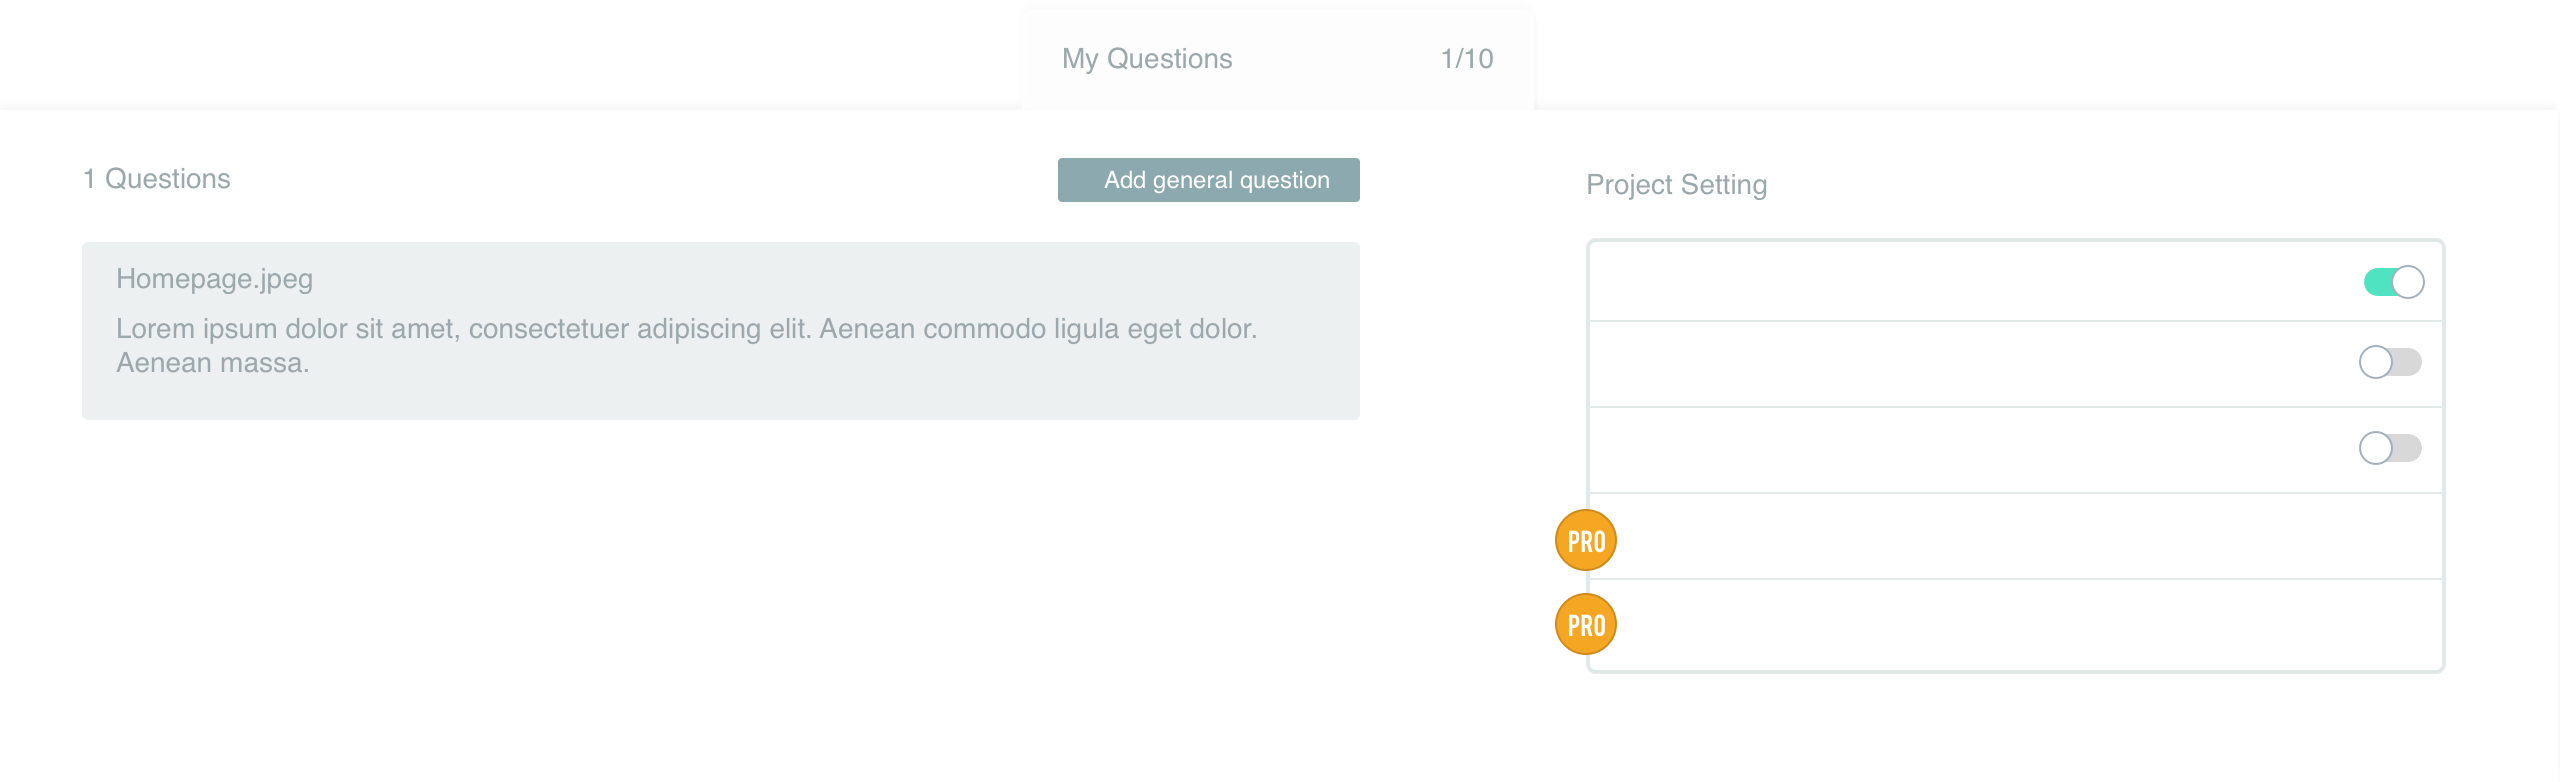
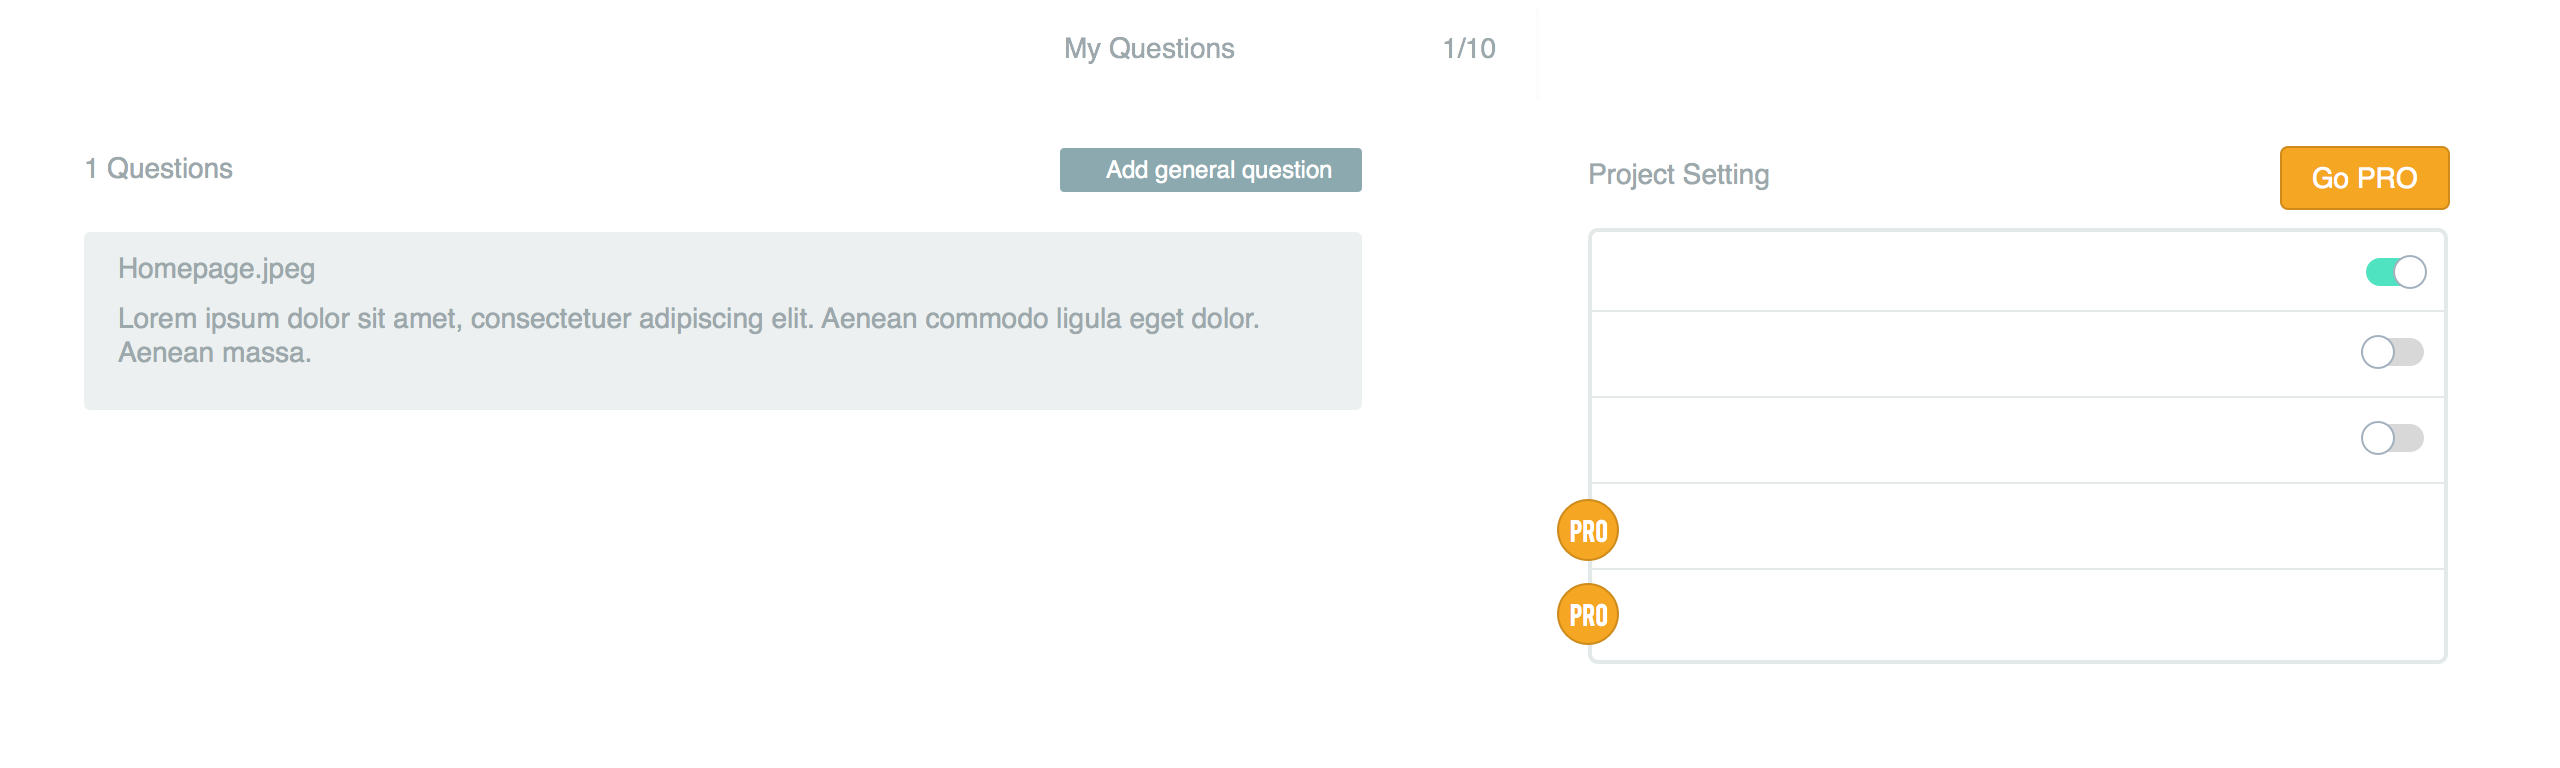
fsdf

diff --git a/css/project-registered.css b/css/project-registered.css
@@ -2,6 +2,32 @@ body {
   background-color: #ecf0f0;
   font-size: 1em;
 }
+.promodals {
+display: none;
+	position: absolute;
+	height: 100%;
+	width: 100%;
+	z-index: 1000;
+	background:rgba(0,0,0,0.75);
+}
+.promodals img {
+position: relative;
+z-index: 1002;
+	display: block;
+	width: 712px;
+	height: 497px;
+	margin: 10% auto 0;
+}
+.promodals .modalbg {
+z-index: 1001;
+float: left;
+	position: absolute !important;
+	display: block;
+	height: 100%;
+	width: 100%;
+	margin: 0;
+	top: 0;
+}
 
 .file-box {
   display: block;
@@ -80,7 +106,7 @@ nav a:hover {
   left: 0;
   right: 0;
   z-index: 6;
-  width: 100%;
+  width: auto;
   height: 384px;
   margin: 0 auto;
   -webkit-transition: all 300ms ease;
@@ -88,6 +114,19 @@ nav a:hover {
 	-ms-transition: all 300ms ease;
 	-o-transition: all 300ms ease;
 	transition: all 300ms ease;
+}
+
+.hidden-btn1 {
+left: 1143px;
+top: 75px;
+position: absolute;
+	display: block;
+	width: 80px;
+	height: 30px;
+}
+.hidden-btn1:hover {
+
+	background: rgba(255,215,215,0.49);
 }
 
 .title-projectname {

diff --git a/project-registered.html b/project-registered.html
@@ -8,6 +8,11 @@
   <link rel="stylesheet" href="css/project-registered.css">
 </head>
 <body class="body project-registered clearfix">
+<div class="promodals">
+  		<img src="images/pro-modals.png">
+  		<div class="modalbg"></div>
+  </div>
+  
   <header class="mainheader clearfix">
     <a class="logo clearfix" href="#">
       <img class="_image" src="images/logo.png">
@@ -34,9 +39,14 @@
       <img class="_image" src="images/upload-box.png">
     </a>
   </div>
-  <a class="question-section clearfix" href="#">
-    <img class="_image" src="images/questpanel.png">
-  </a>
+  <div class="question-section clearfix" href="#">
+  	<a href="#a" class="hidden-btn1"></a>
+  	<a href="#a" class="question-trigger">
+    	<img class="_image" src="images/questpanel.png">
+    </a>
+    
+  </div>
+  
   <script src="js/jquery-min.js"></script>
   <script src="js/project-registered.js"></script>
 </body>

diff --git a/js/project-registered.js b/js/project-registered.js
@@ -1,9 +1,9 @@
 $(document).ready(function () {
-$(".question-section").on("click", function(){
-	if ($(this).is(".expand")) {
-		$(this).removeClass("expand").css("bottom" , "-340px");
+$(".question-trigger").on("click", function(){
+	if ($(".question-section").is(".expand")) {
+		$(".question-section").removeClass("expand").css("bottom" , "-340px");
 	} else {
-		$(this).addClass("expand").css("bottom" , "0px");
+		$(".question-section").addClass("expand").css("bottom" , "0px");
 	}
 });
 
@@ -31,6 +31,14 @@ $(".file-box")
 	});
 $(".upload-box").click(function(){
 	$(this).prev().clone().insertBefore(this);
+});
+
+$(".modalbg").click(function(){
+	$(".promodals").hide();
+});
+
+$(".hidden-btn1").click(function(){
+	$(".promodals").show();
 });
 
 });

diff --git a/share-registered.html b/share-registered.html
@@ -17,15 +17,13 @@
       <a href="users.html" class="_text _text-4">Manage users</a>
     </nav>
     <span class="_element"></span>
-    <a class="logo clearfix" href="#">
+    <a class="logo clearfix" href="home-registered.html">
       <img class="_image" src="images/logo.png">
     </a>
     <a class="profile clearfix" href="#">
       <img class="_image" src="images/profile(2).png">
     </a>
   </header>
-  
-  
   <a class="share-publish clearfix" href="#">
     <img class="_image" src="images/share-publish.png">
   </a>
